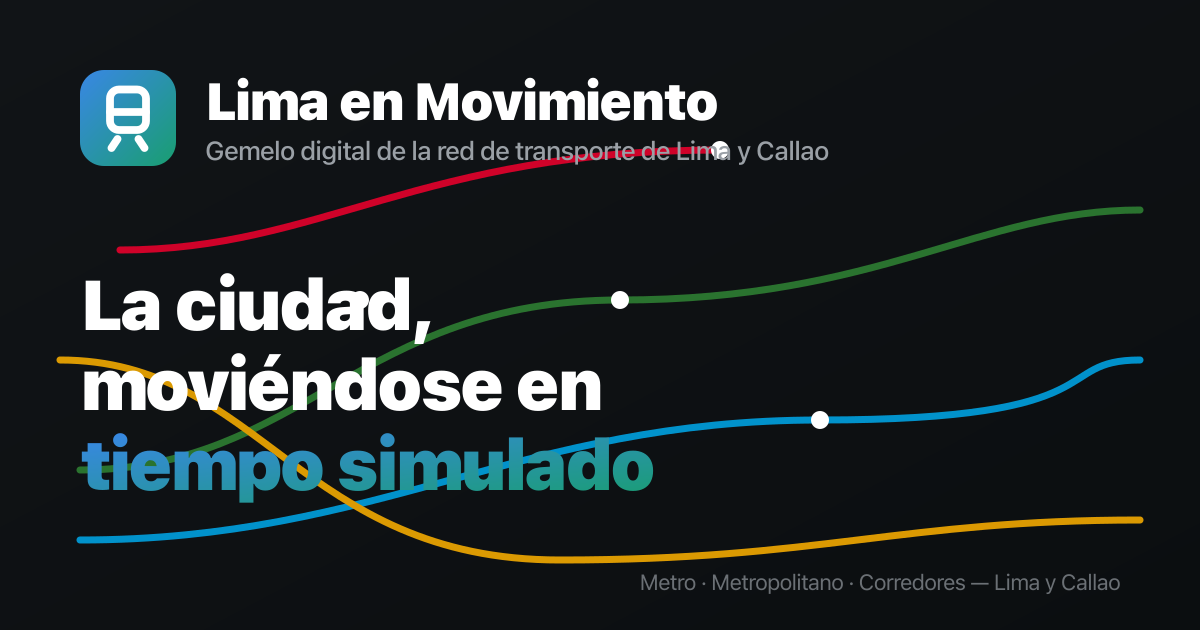
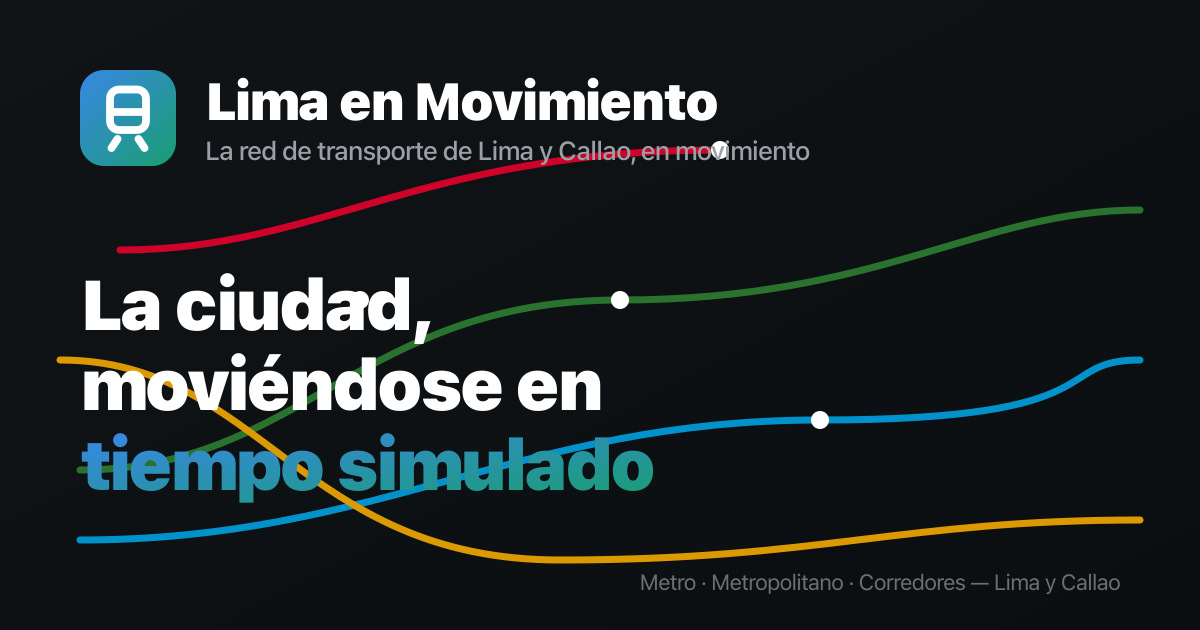
Reemplaza etiqueta 'Gemelo Digital' por la marca 'Lima en Movimiento' en textos visibles y OG

Changed region(s): [[0.1542, 0.2111, 0.6783, 0.2714]]

diff --git a/index.html b/index.html
@@ -3,22 +3,22 @@
 <head>
 <meta charset="utf-8">
 <meta name="viewport" content="width=device-width, initial-scale=1">
-<title>Lima en Movimiento · Gemelo Digital del transporte</title>
-<meta name="description" content="Lima en Movimiento — gemelo digital de la red de transporte urbano de Lima y Callao: mapa real con la red masiva (Metro, Metropolitano, corredores) animada en tiempo simulado y tablero de datos de movilidad.">
+<title>Lima en Movimiento · Transporte de Lima</title>
+<meta name="description" content="Lima en Movimiento — una mirada viva a la red de transporte urbano de Lima y Callao: mapa real con la red masiva (Metro, Metropolitano, corredores) animada en tiempo simulado y tablero de datos de movilidad.">
 <meta name="theme-color" content="#0d0d0d">
 <link rel="icon" href="assets/favicon.svg" type="image/svg+xml">
 <link rel="apple-touch-icon" href="assets/favicon.svg">
 <!-- Open Graph / Twitter -->
 <meta property="og:type" content="website">
 <meta property="og:site_name" content="Lima en Movimiento">
-<meta property="og:title" content="Lima en Movimiento · Gemelo Digital del transporte">
+<meta property="og:title" content="Lima en Movimiento · Transporte de Lima">
 <meta property="og:description" content="La red de Lima y Callao moviéndose en tiempo simulado: mapa real + tablero de datos de movilidad.">
 <meta property="og:url" content="https://unimauro.github.io/gemelo-lima-transporte/">
 <meta property="og:image" content="https://unimauro.github.io/gemelo-lima-transporte/assets/og.png">
 <meta property="og:image:width" content="1200">
 <meta property="og:image:height" content="630">
 <meta name="twitter:card" content="summary_large_image">
-<meta name="twitter:title" content="Lima en Movimiento · Gemelo Digital">
+<meta name="twitter:title" content="Lima en Movimiento">
 <meta name="twitter:description" content="La red de transporte de Lima y Callao moviéndose en tiempo simulado.">
 <meta name="twitter:image" content="https://unimauro.github.io/gemelo-lima-transporte/assets/og.png">
 <link rel="preconnect" href="https://cdnjs.cloudflare.com">
@@ -36,11 +36,11 @@
       <svg viewBox="0 0 24 24" fill="none" stroke="#fff" stroke-width="2" stroke-linecap="round" stroke-linejoin="round">
         <rect x="4" y="3" width="16" height="14" rx="3"/><path d="M4 11h16"/><circle cx="8.5" cy="14" r="1"/><circle cx="15.5" cy="14" r="1"/><path d="M8 21l1.5-3M16 21l-1.5-3"/></svg>
     </span>
-    <div><b>Lima en Movimiento</b><span>Gemelo digital · Lima y Callao</span></div>
+    <div><b>Lima en Movimiento</b><span>Transporte urbano · Lima y Callao</span></div>
   </a>
 
   <nav class="side-nav">
-    <a href="#gemelo" class="active"><svg viewBox="0 0 24 24"><path d="M12 2a7 7 0 0 0-7 7c0 5 7 13 7 13s7-8 7-13a7 7 0 0 0-7-7z"/><circle cx="12" cy="9" r="2.5"/></svg>Gemelo en vivo</a>
+    <a href="#gemelo" class="active"><svg viewBox="0 0 24 24"><path d="M12 2a7 7 0 0 0-7 7c0 5 7 13 7 13s7-8 7-13a7 7 0 0 0-7-7z"/><circle cx="12" cy="9" r="2.5"/></svg>Mapa en vivo</a>
     <a href="#indicadores"><svg viewBox="0 0 24 24"><path d="M4 20V10M10 20V4M16 20v-7M22 20H2"/></svg>Indicadores</a>
     <a href="#tablero"><svg viewBox="0 0 24 24"><rect x="3" y="3" width="8" height="8" rx="1"/><rect x="13" y="3" width="8" height="5" rx="1"/><rect x="13" y="11" width="8" height="10" rx="1"/><rect x="3" y="14" width="8" height="7" rx="1"/></svg>Tablero</a>
     <a href="#parque"><svg viewBox="0 0 24 24"><path d="M5 17h14M6 17l1-5a3 3 0 0 1 3-2h4a3 3 0 0 1 3 2l1 5"/><circle cx="7.5" cy="17.5" r="1.5"/><circle cx="16.5" cy="17.5" r="1.5"/><path d="M4 12h16"/></svg>Parque automotor</a>
@@ -76,7 +76,7 @@
 <!-- HERO / GEMELO -->
 <section class="hero wrap" id="gemelo">
   <div class="hero-head">
-    <div class="eyebrow">Gemelo digital en vivo</div>
+    <div class="eyebrow">La red en vivo</div>
     <h1>La red de Lima, moviéndose en tiempo simulado</h1>
     <p id="heroSub">Una réplica virtual de la red masiva de Lima y Callao sobre el mapa real de la ciudad.
       Los vehículos circulan según frecuencias que cambian con la hora del día. Pulsa play, avanza el reloj y usa el mapa: acércate, aléjate y navega las calles.</p>
@@ -164,7 +164,7 @@
     </div>
     <div class="card chartcard">
       <h3>Demanda a lo largo del día</h3>
-      <div class="csub">Índice de demanda relativa por hora — el marcador sigue el reloj del gemelo</div>
+      <div class="csub">Índice de demanda relativa por hora — el marcador sigue el reloj de la simulación</div>
       <div class="chart-holder"><canvas id="chDemand"></canvas></div>
     </div>
     <div class="card chartcard">
@@ -247,7 +247,7 @@
 <section class="wrap" id="apoyo">
   <div class="eyebrow">Apoya el proyecto</div>
   <h2 class="sec-title">Invítame un café ☕</h2>
-  <p class="sec-sub">Este gemelo digital es un proyecto abierto y educativo. Si te fue útil, puedes apoyar su mantenimiento y que sume más líneas y datos reales.</p>
+  <p class="sec-sub">Lima en Movimiento es un proyecto abierto y educativo. Si te fue útil, puedes apoyar su mantenimiento y que sume más líneas y datos reales.</p>
   <div class="support" id="support">
     <div class="sup-card yape">
       <div class="sup-h"><span class="sup-ic">Y</span><b>Yape</b></div>
@@ -281,7 +281,7 @@
 
 <footer>
   <div class="wrap">
-    <span class="badge">Gemelo digital · maqueta educativa</span>
+    <span class="badge">Lima en Movimiento · maqueta educativa</span>
     <span>Datos de referencia de fuentes públicas (ATU, operadores, estudios de movilidad).</span>
     <span style="margin-left:auto">Lima en Movimiento · <span id="year"></span></span>
   </div>
